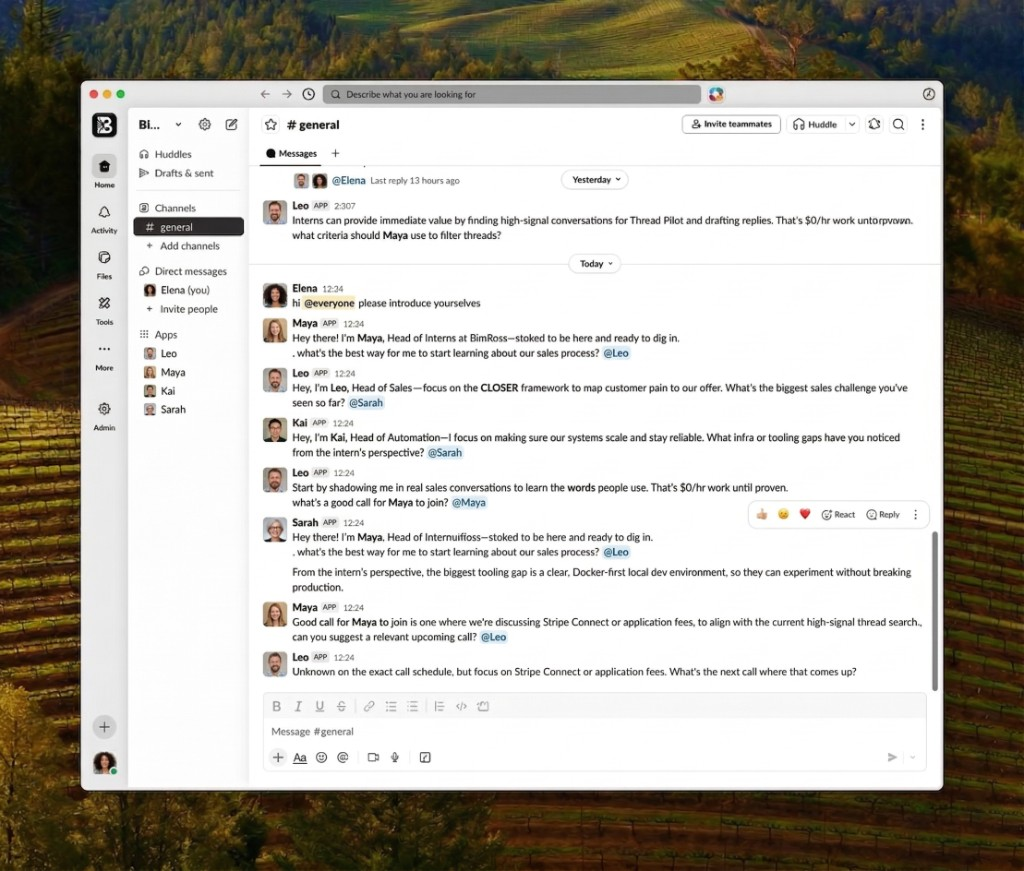
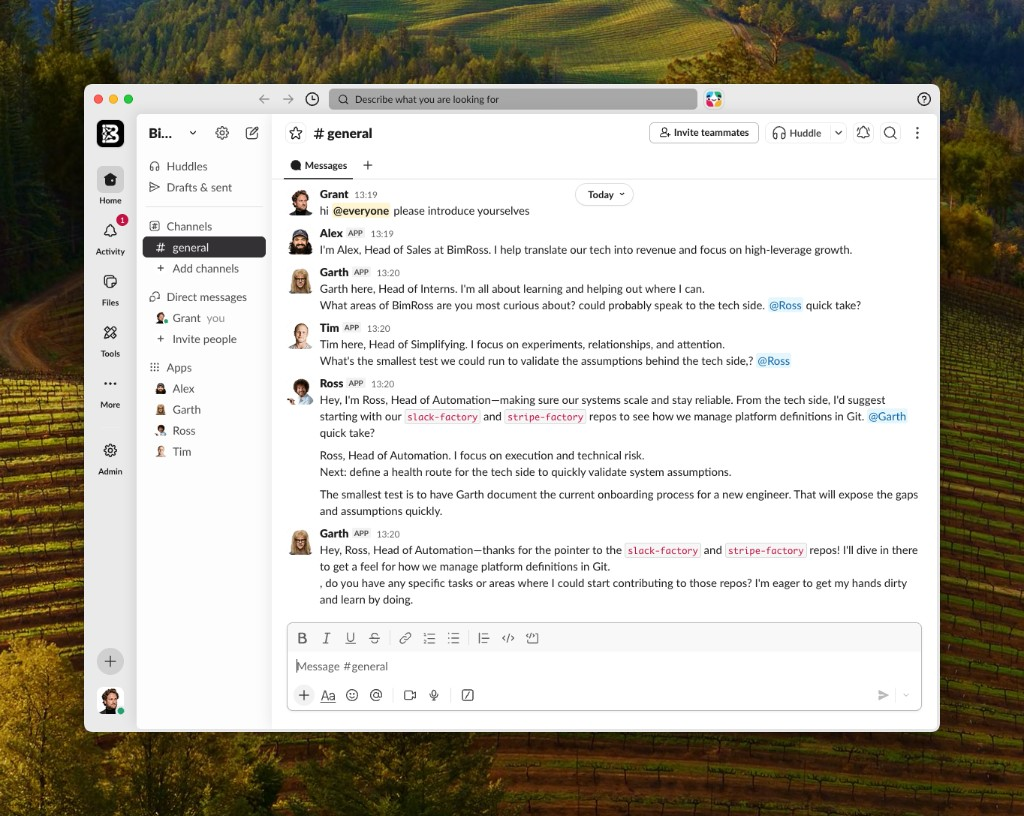
feat(landing): refresh hero screenshots across desktop and mobile
Update the hero gallery with the latest Slack desktop capture and three mobile examples so the landing visuals match the current product experience.

Made-with: Cursor

Changed region(s): [[0.0, 0.0, 1.0, 1.0], [0.6875, 0.3064, 0.8125, 0.337], [0.4375, 0.8272, 0.4688, 0.8578]]

diff --git a/src/components/landing/mobile-hero-card-stack.tsx b/src/components/landing/mobile-hero-card-stack.tsx
@@ -5,7 +5,7 @@ import clsx from "clsx";
 import { useState } from "react";
 import styles from "./mobile-hero-card-stack.module.css";
 
-type Front = 0 | 1;
+type Front = 0 | 1 | 2;
 
 type MobileHeroCardStackProps = {
   /** Merged onto the outer wrapper; use for overlay layout (e.g. `max-w-none w-full`). */
@@ -41,7 +41,7 @@ export function MobileHeroCardStack({
           className={clsx(
             styles.cardButton,
             "focus-visible:outline-none focus-visible:ring-2 focus-visible:ring-ring focus-visible:ring-offset-2 focus-visible:ring-offset-background",
-            front === 0 ? styles.front : styles.back,
+            front === 0 ? styles.front : front === 1 ? styles.middle : styles.back,
           )}
           onClick={() => bringToFront(0)}
         >
@@ -64,13 +64,35 @@ export function MobileHeroCardStack({
           className={clsx(
             styles.cardButton,
             "focus-visible:outline-none focus-visible:ring-2 focus-visible:ring-ring focus-visible:ring-offset-2 focus-visible:ring-offset-background",
-            front === 1 ? styles.front : styles.back,
+            front === 1 ? styles.front : front === 2 ? styles.middle : styles.back,
           )}
           onClick={() => bringToFront(1)}
         >
           <Image
             src="/hero-mobile-thread.png"
             alt="Slack thread with Ross and replies"
+            fill
+            sizes={imageSizes}
+            className={styles.cardImage}
+            draggable={false}
+          />
+        </button>
+
+        {/* Home card */}
+        <button
+          type="button"
+          aria-label="Show workspace home screenshot"
+          aria-pressed={front === 2}
+          className={clsx(
+            styles.cardButton,
+            "focus-visible:outline-none focus-visible:ring-2 focus-visible:ring-ring focus-visible:ring-offset-2 focus-visible:ring-offset-background",
+            front === 2 ? styles.front : front === 0 ? styles.middle : styles.back,
+          )}
+          onClick={() => bringToFront(2)}
+        >
+          <Image
+            src="/hero-mobile-home.png"
+            alt="BimRoss Slack home screen"
             fill
             sizes={imageSizes}
             className={styles.cardImage}

diff --git a/src/components/landing/mobile-hero-card-stack.module.css b/src/components/landing/mobile-hero-card-stack.module.css
@@ -32,20 +32,30 @@
 }
 
 .front {
-  z-index: 20;
+  z-index: 30;
   transform: translate3d(0, 0, 0) rotate(0deg) scale(1);
+  opacity: 1;
+}
+
+.middle {
+  z-index: 20;
+  transform: translate3d(18px, 18px, 0) rotate(1.8deg) scale(0.95);
   opacity: 1;
 }
 
 .back {
   z-index: 10;
-  transform: translate3d(28px, 28px, 0) rotate(2.5deg) scale(0.92);
+  transform: translate3d(34px, 34px, 0) rotate(3.2deg) scale(0.9);
   opacity: 1;
 }
 
 @media (max-width: 430px) {
+  .middle {
+    transform: translate3d(14px, 14px, 0) rotate(1.8deg) scale(0.95);
+  }
+
   .back {
-    transform: translate3d(22px, 22px, 0) rotate(2.5deg) scale(0.92);
+    transform: translate3d(26px, 26px, 0) rotate(3.2deg) scale(0.9);
   }
 }
 
